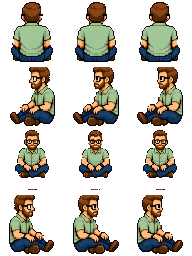
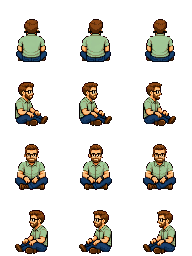
Update sprite assets and enhance processing script for improved animation handling
- Replaced existing sprite images for Kevin's sit, walk, leaves, trees, and witch-walk animations.
- Refactored the process-sprites.py script to improve cell fitting and scaling logic for sprite sheets.
- Introduced a new method to handle transparent gaps in sprite sheets, ensuring better alignment and rendering.

diff --git a/scripts/process-sprites.py b/scripts/process-sprites.py
@@ -107,16 +107,20 @@ def paint_back_glasses(im: Image.Image, cols: int, cw: int, ch: int) -> None:
     """Stamp a tiny black rectangle at each ear on sit back-view frames."""
     px = im.load()
     for c in range(cols):
-        x0, y0 = c * cw, 0
+        x0 = c * cw
+        box = im.crop((x0, 0, x0 + cw, ch)).split()[-1].getbbox()
+        if not box:
+            continue
+        y0 = box[1]  # ear line sits ~11px below the top of the head
         xs: list[int] = []
-        for y in range(y0 + 13, y0 + 18):
+        for y in range(y0 + 11, y0 + 16):
             for x in range(x0 + 4, x0 + cw - 4):
                 r, g, b, a = px[x, y]
                 if a > 200 and r + g + b > 80:
                     xs.append(x)
         if not xs:
             continue
-        left, right, ey = min(xs), max(xs), y0 + 14
+        left, right, ey = min(xs), max(xs), y0 + 12
         for dx in range(4):
             for dy in range(2):
                 px[max(x0, left - 1 + dx), ey + dy] = (8, 6, 6, 255)
@@ -135,30 +139,28 @@ def harden_pixels(im: Image.Image, step: int = 16) -> Image.Image:
     return im
 
 
-def bbox(cell: Image.Image) -> Optional[Tuple[int, int, int, int]]:
-    alpha = cell.split()[-1]
-    box = alpha.getbbox()
-    return box
+def _runs(mask: list) -> list:
+    """Index ranges where mask is True."""
+    runs, start = [], None
+    for i, v in enumerate(mask + [False]):
+        if v and start is None:
+            start = i
+        elif not v and start is not None:
+            runs.append((start, i))
+            start = None
+    return runs
 
 
-def fit_cell(cell: Image.Image, tw: int, th: int, scrub: bool = False) -> Image.Image:
-    box = bbox(cell)
-    out = Image.new("RGBA", (tw, th), (0, 0, 0, 0))
-    if not box:
-        return out
-    cropped = cell.crop(box)
-    # Leave a 2px pad; keep feet on the floor.
-    max_w, max_h = tw - 4, th - 4
-    cw, ch = cropped.size
-    scale = min(max_w / cw, max_h / ch)
-    nw, nh = max(1, int(cw * scale)), max(1, int(ch * scale))
-    resized = cropped.resize((nw, nh), Image.Resampling.NEAREST)
-    x = (tw - nw) // 2
-    y = th - 2 - nh
-    out.paste(resized, (x, y), resized)
-    if scrub:
-        scrub_fringe(out)
-    return out
+def cells(im: Image.Image) -> list:
+    """Split a keyed sheet on fully transparent gaps into rows of (l, t, r, b) boxes.
+    Generated grids drift off their nominal pitch, so slicing on a fixed grid grabs the neighbour's head."""
+    a = im.split()[-1]
+    w, h = a.size
+    rows = _runs([a.crop((0, y, w, y + 1)).getbbox() is not None for y in range(h)])
+    return [
+        [(l, t, r, b) for l, r in _runs([a.crop((x, t, x + 1, b)).getbbox() is not None for x in range(w)])]
+        for t, b in rows
+    ]
 
 
 def sheet(
@@ -174,6 +176,7 @@ def sheet(
     foot_shadow: bool = False,
     rust_pink: bool = False,
     clean_edges: bool = False,
+    fit_h: Optional[int] = None,
 ) -> None:
     keyed = key_rgba(Image.open(src))
     if foot_shadow:
@@ -184,18 +187,25 @@ def sheet(
         keyed = sage_shirt(keyed)
     if clean_edges:
         keyed = scrub_fringe(keyed)
-    sw, sh = keyed.size
-    cell_w, cell_h = sw // cols, sh // rows
+    grid = cells(keyed)
+    assert [len(r) for r in grid] == [cols] * rows, f"{src.name}: found {[len(r) for r in grid]}"
+    # One scale for the whole sheet: frames do not pulse and every pose keeps the same head size.
+    # 2px pad; fit_h caps the tallest figure (seated poses are shorter than standing ones).
+    max_h = fit_h or ch - 4
+    scale = min(min((cw - 4) / (r - l), max_h / (b - t)) for row in grid for l, t, r, b in row)
     order = row_order or list(range(rows))
     flips = set(flip_rows or [])
     out = Image.new("RGBA", (cols * cw, rows * ch), (0, 0, 0, 0))
     for dest_r, src_r in enumerate(order):
-        for c in range(cols):
-            cell = keyed.crop((c * cell_w, src_r * cell_h, (c + 1) * cell_w, (src_r + 1) * cell_h))
-            fitted = fit_cell(cell, cw, ch, scrub=clean_edges)
+        for c, box in enumerate(grid[src_r]):
+            cell = keyed.crop(box)
+            nw, nh = max(1, round(cell.width * scale)), max(1, round(cell.height * scale))
+            fitted = cell.resize((nw, nh), Image.Resampling.NEAREST)
             if dest_r in flips:
                 fitted = fitted.transpose(Image.Transpose.FLIP_LEFT_RIGHT)
-            out.paste(fitted, (c * cw, dest_r * ch))
+            out.paste(fitted, (c * cw + (cw - nw) // 2, dest_r * ch + ch - 2 - nh), fitted)
+    if clean_edges:
+        scrub_fringe(out)
     dest.parent.mkdir(parents=True, exist_ok=True)
     out.save(dest)
     print(dest.name, out.size)
@@ -355,7 +365,8 @@ def main() -> None:
         foot_shadow=True,
         clean_edges=True,
     )
-    # v2 sit: row 1 is mixed; use right row for both sides and flip dest left.
+    # v2 sit: raw row 1 is mixed; raw row 3 faces left, so reuse it flipped for right.
+    # Seated Kevin tops out at 46px so his head stays the same size as the 60px walk frames.
     sheet(
         RAW / "kevin-sit-sheet-v2.png",
         3,
@@ -364,10 +375,11 @@ def main() -> None:
         64,
         OUT / "kevin-sit.png",
         row_order=[0, 3, 2, 3],
-        flip_rows=[1],
+        flip_rows=[3],
         shirt_sage=True,
         foot_shadow=True,
         clean_edges=True,
+        fit_h=46,
     )
     # Front sit last frame has a smashed lens; reuse the clean front frame.
     sit = Image.open(OUT / "kevin-sit.png")
